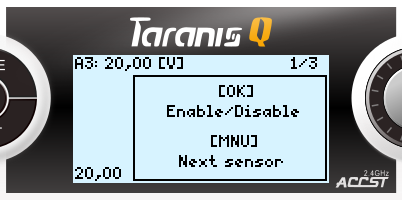
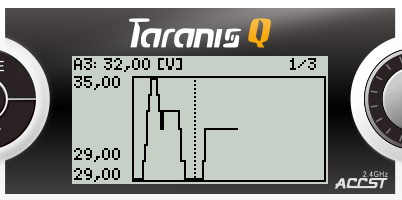
TX16S color charts

diff --git a/README.md b/README.md
@@ -1,10 +1,10 @@
-## OpenTX/EdgeTX Charts for telemetry sensors
+# OpenTX/EdgeTX Charts for telemetry sensors
 
-Copy file `charts.lua` to Your `SDCARD/SCRIPTS/TELEMETRY` directory.
+### Black/White charts for Taranis X7
 
-During start it will scan all Your sensors. To limit CPU usage every sensor is disabled at the beggining. 
+Copy file `charts.lua` to Your `SDCARD/SCRIPTS/TELEMETRY` directory. During start it will scan all Your sensors. To limit CPU usage every sensor is disabled at the beggining. 
 
-![2.png](/images/2.png)
+![2.png](/images/1.png)
 
 To start recording just push `[OK]` button. It will start the chart. You can switch between sensors with `[MENU]` button. 
 
@@ -14,14 +14,24 @@ On left side there are also Maximum and Minimum values shown.
 
 Here are some pictures:
 
-![3.png](/images/3.png)
+![3.png](/images/2.png)
 
-![4.png](/images/4.png)
+![4.png](/images/3.png)
 
-![5.png](/images/5.png)
 
-![6.png](/images/6.png)
 
-![7.png](/images/7.png)
+### Color charts for TX16S
 
-![8.png](/images/8.png)
+Copy `Multigraph` folder to Your radio `SDCARD/WIDGETS` folder. Then select new widget in the same way as other widgets. 
+
+
+
+Standard size
+
+![10.jpg](/images/10.jpg)
+
+
+
+Full screen
+
+![12.jpg](/12.jpg)
